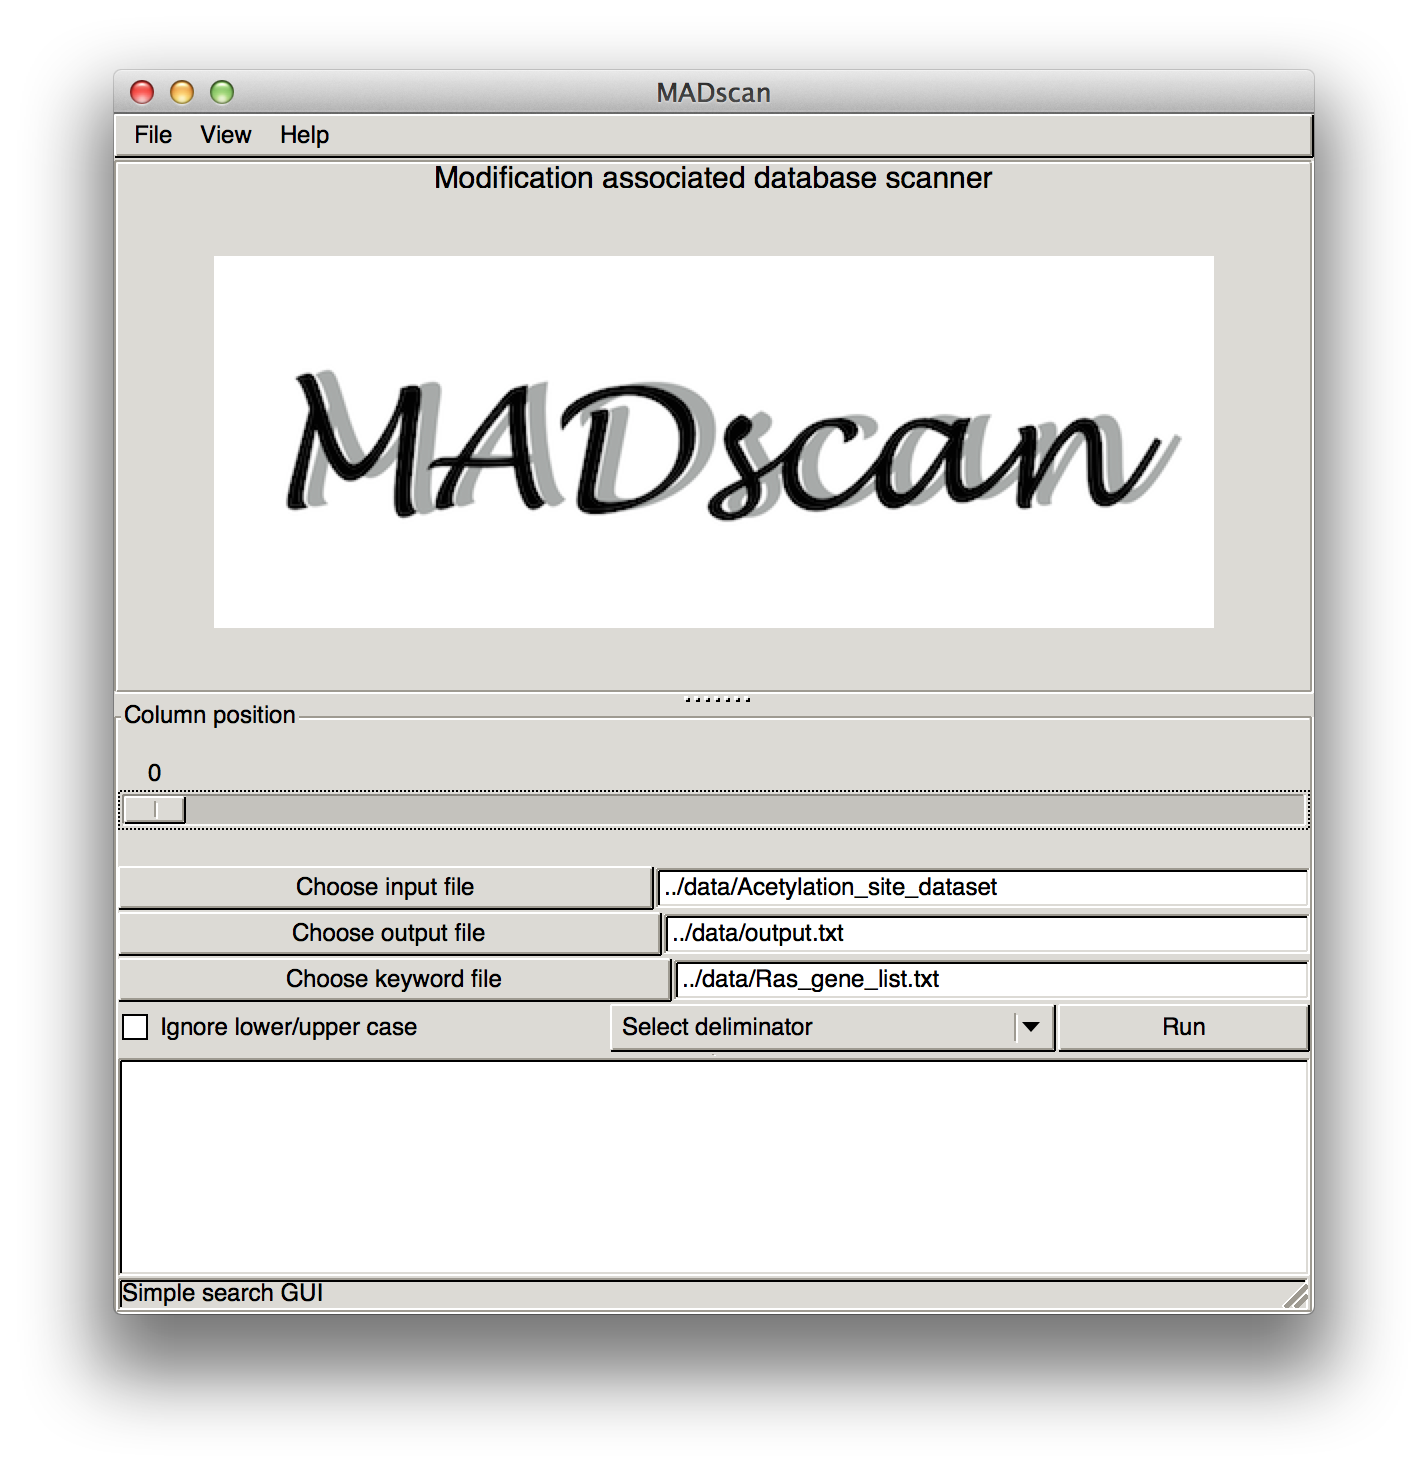
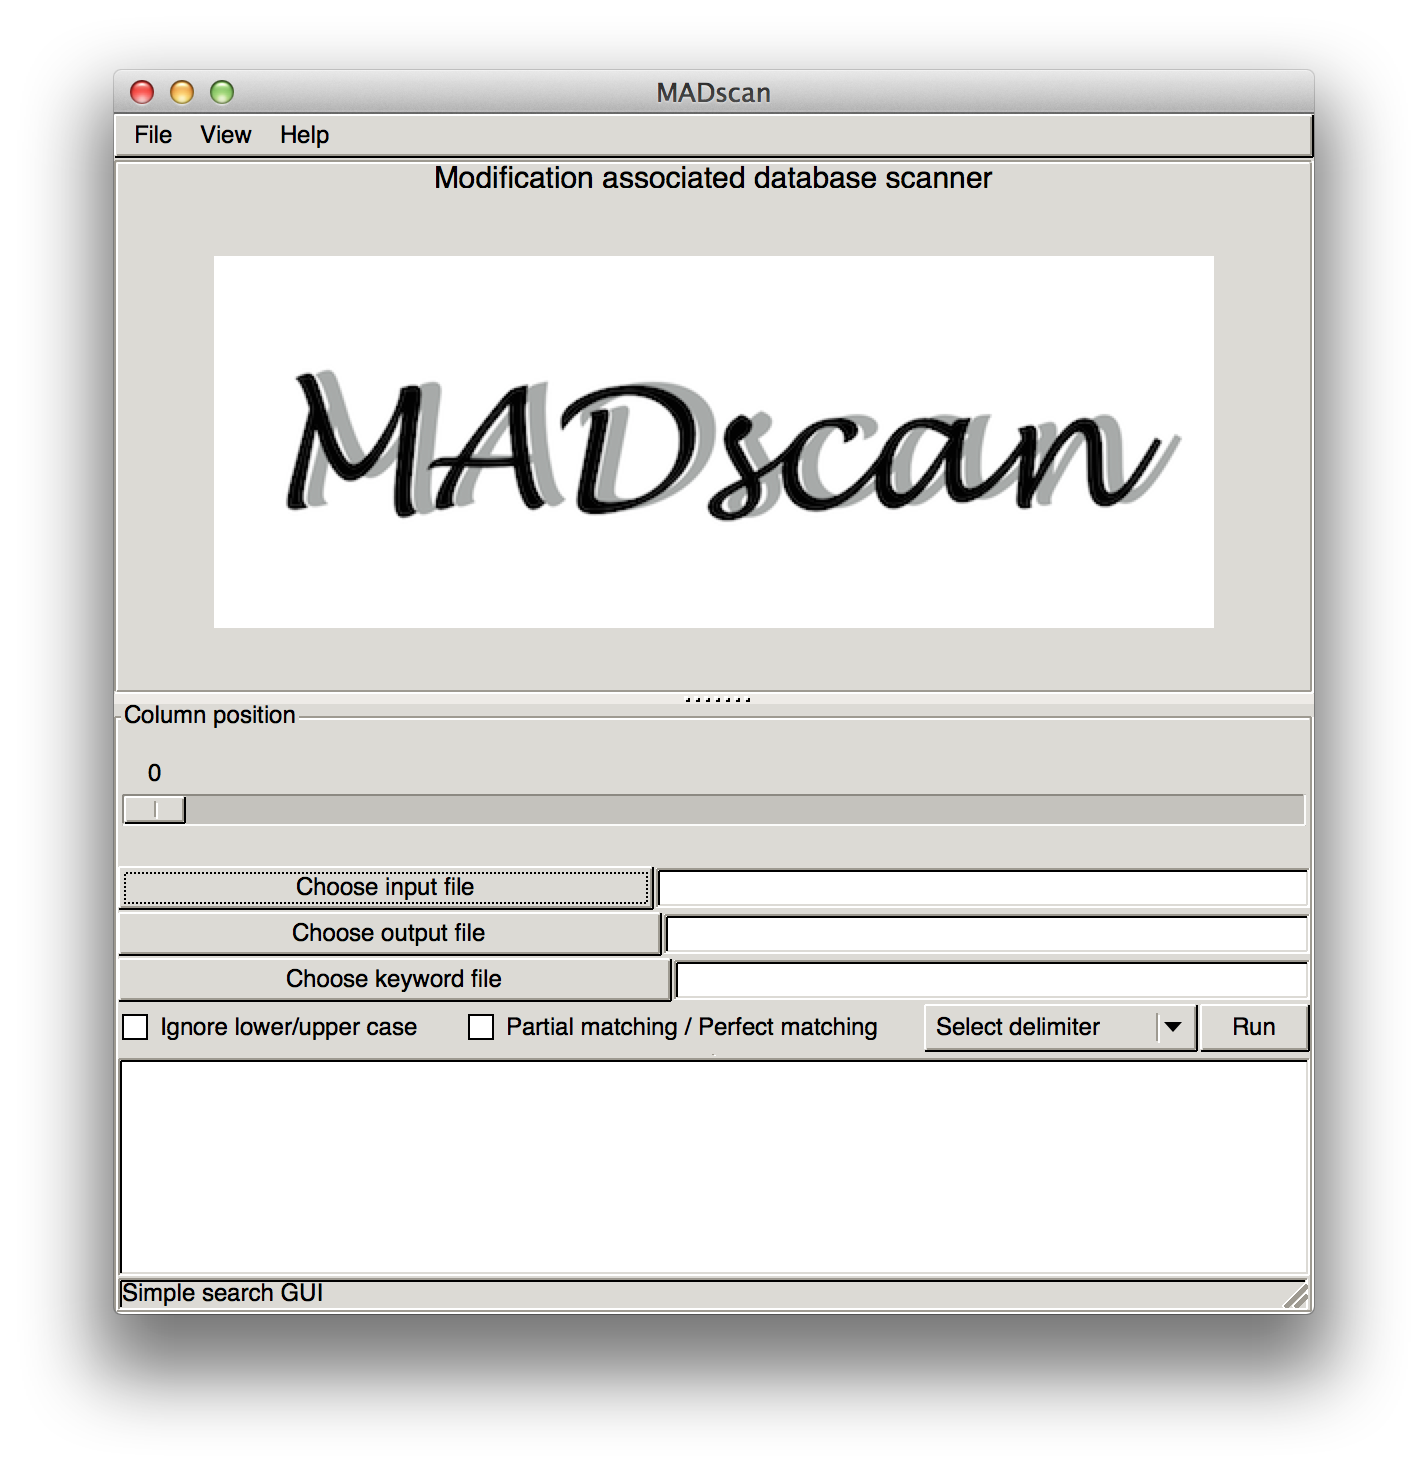
correct misspelled words

Changed region(s): [[0.3081, 0.5938, 0.7087, 0.7188], [0.6471, 0.6875, 0.7703, 0.7188], [0.8011, 0.6875, 0.8936, 0.7188]]

diff --git a/MADscan.go b/MADscan.go
@@ -15,7 +15,7 @@ import (
 )
 
 var (
-	delimName = []string{"Select deliminator", "tab (\\t)", "space ( )", "comma (,)", "period (.)", "colon (:)"}
+	delimName = []string{"Select delimiter", "tab (\\t)", "space ( )", "comma (,)", "period (.)", "colon (:)"}
 	delimList = []string{"\t", "\t", " ", ",", ".", ":"}
 )
 
@@ -43,7 +43,7 @@ func isAlphaNum(c byte) bool {
 	return true
 }
 
-func (a *arguments) setDeliminator() {
+func (a *arguments) setDelimiter() {
 	if len(a.delim) > 1 {
 		for i, delim := range delimName {
 			if a.delim == delim {
@@ -132,7 +132,7 @@ func output(outputPath string, matchedLines []string) {
 }
 
 func getKeysearchWords(arg arguments) (int, error) {
-	arg.setDeliminator()
+	arg.setDelimiter()
 	fmt.Println("Read: " + arg.filterPath)
 	keyList, err := getKeywords(arg.filterPath, arg.ignoreCase)
 	if err != nil {
@@ -335,7 +335,7 @@ func main() {
 	})
 	buttons.Add(checkbutton)
 
-	checkMatchButton := gtk.NewCheckButtonWithLabel("Partial matching/Perfect matching")
+	checkMatchButton := gtk.NewCheckButtonWithLabel("Partial matching / Perfect matching")
 	checkMatchButton.Connect("toggled", func() {
 		if checkMatchButton.GetActive() {
 			arg.perfectMatch = false

diff --git a/README.md b/README.md
@@ -29,7 +29,7 @@ go get github.com/carushi/MADscan
 
 ### Example
 
-1. Choose input file such as tab deliminated file (specified in ``Select deliminator'' button)
+1. Choose input file such as tab delimited file (specified in ``Select delimiter'' button)
 2. Choose output file (default: MADscan/data/output.txt)
 3. Choose keyword file (containing each keyword in a single line such as gene id)
 4. Set column position (0: search all columns, 1: search 1st column, ...)
